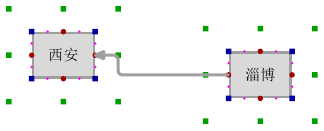
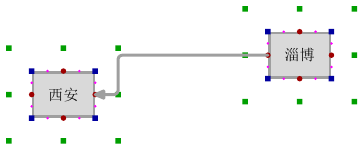
wip

diff --git a/output/metafun/new-snail.html b/output/metafun/new-snail.html
@@ -225,7 +225,7 @@
 </figure>
 <p>还有两个宏，<code>经至</code> 和 <code>纬至</code>，有时也能简化路径的构造。例如，从山东淄博向正西前进，至西安所在的经度，该路径可使用 <code>经至</code> 构造：</p>
 <div class="sourceCode" id="cb14"><pre class="sourceCode metafont"><code class="sourceCode metafont"><span id="cb14-1"><a href="#cb14-1" aria-hidden="true"></a>宫(甲, <span class="st">&quot;淄博&quot;</span>);</span>
-<span id="cb14-2"><a href="#cb14-2" aria-hidden="true"></a>宫(乙, <span class="st">&quot;西安&quot;</span>) 位于 乙 偏 (西 <span class="fl">5cm</span> <span class="op">+</span> 北 <span class="fl">.5</span>cm);</span>
+<span id="cb14-2"><a href="#cb14-2" aria-hidden="true"></a>宫(乙, <span class="st">&quot;西安&quot;</span>) 位于 乙 偏 (西 <span class="fl">6cm</span> <span class="op">+</span> 南 <span class="fl">1cm</span>);</span>
 <span id="cb14-3"><a href="#cb14-3" aria-hidden="true"></a>呜呼 甲, 乙;</span>
 <span id="cb14-4"><a href="#cb14-4" aria-hidden="true"></a>关防要塞 甲, 乙;</span>
 <span id="cb14-5"><a href="#cb14-5" aria-hidden="true"></a></span>
@@ -235,7 +235,7 @@
 </figure>
 <p>可以位路径增加标注。snail 会自动选择路径中最长的路段放标注文本。例如</p>
 <div class="sourceCode" id="cb15"><pre class="sourceCode metafont"><code class="sourceCode metafont"><span id="cb15-1"><a href="#cb15-1" aria-hidden="true"></a>宫(甲, <span class="st">&quot;淄博&quot;</span>);</span>
-<span id="cb15-2"><a href="#cb15-2" aria-hidden="true"></a>宫(乙, <span class="st">&quot;西安&quot;</span>) 位于 乙 偏 (西 <span class="fl">5cm</span> <span class="op">+</span> 北 <span class="fl">.5</span>cm);</span>
+<span id="cb15-2"><a href="#cb15-2" aria-hidden="true"></a>宫(乙, <span class="st">&quot;西安&quot;</span>) 位于 乙 偏 (西 <span class="fl">6cm</span> <span class="op">+</span> 南 <span class="fl">1cm</span>);</span>
 <span id="cb15-3"><a href="#cb15-3" aria-hidden="true"></a>呜呼 甲, 乙;</span>
 <span id="cb15-4"><a href="#cb15-4" aria-hidden="true"></a>路(甲乙, 甲.酉门 经至 乙.离位 经转 乙.卯门) 标注(<span class="st">&quot;火车需要 18 个小时&quot;</span>, <span class="st">&quot;北&quot;</span>);</span></code></pre></div>
 <figure>

diff --git a/source/metafun/new-snail.md b/source/metafun/new-snail.md
@@ -193,7 +193,7 @@ $ context --generate
 
 ```MetaFont
 宫(甲, "淄博");
-宫(乙, "西安") 位于 乙 偏 (西 5cm + 北 .5cm);
+宫(乙, "西安") 位于 乙 偏 (西 6cm + 南 1cm);
 呜呼 甲, 乙;
 关防要塞 甲, 乙;
 
@@ -206,7 +206,7 @@ $ context --generate
 
 ```MetaFont
 宫(甲, "淄博");
-宫(乙, "西安") 位于 乙 偏 (西 5cm + 北 .5cm);
+宫(乙, "西安") 位于 乙 偏 (西 6cm + 南 1cm);
 呜呼 甲, 乙;
 路(甲乙, 甲.酉门 经至 乙.离位 经转 乙.卯门) 标注("火车需要 18 个小时", "北");
 ```
